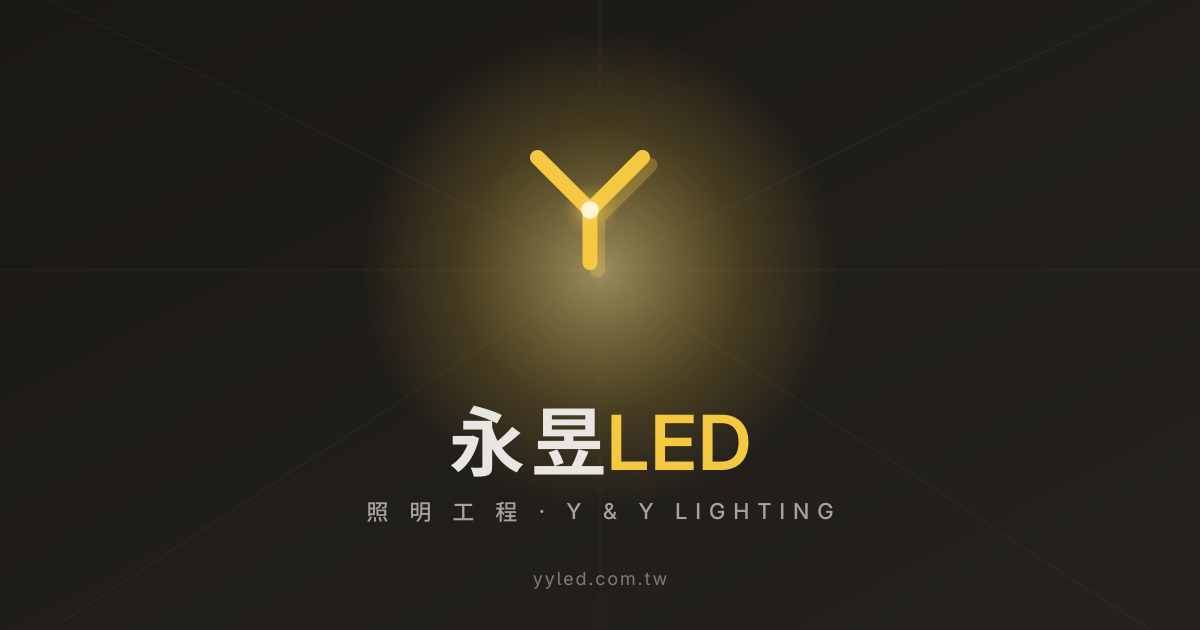
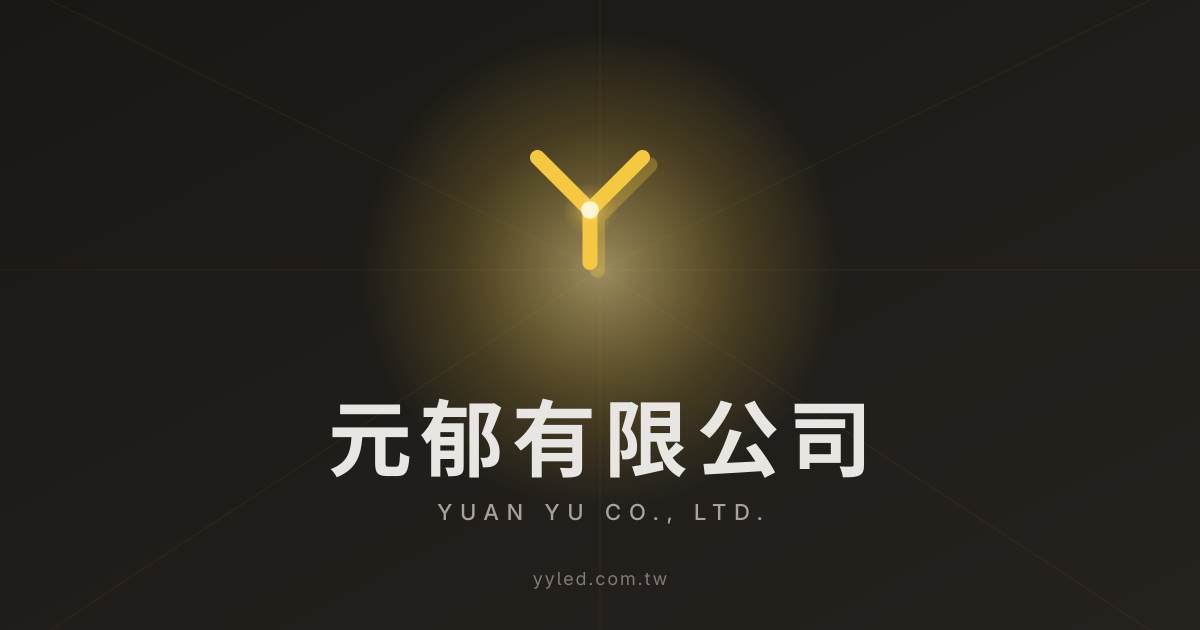
rebrand: 公司名稱 永昱 LED 照明工程 → 元郁有限公司
文字替換範圍：
- hugo.toml: site title + params.description
- content/_index.md: frontmatter title
- content/works/_index.md: description
- themes/yyled/layouts/index.html: hero 文案
- themes/yyled/layouts/_partials/header.html: logo img alt
- themes/yyled/layouts/_partials/footer.html: footer credit
- themes/yyled/layouts/_default/baseof.html: og:image:alt
- static/favicon.svg: aria-label
- static/img/logo.svg: aria-label + wordmark 文字 + 英文 tagline
- static/img/og-image.svg: 全部文字
- static/img/og-image.png: 重新由 SVG 渲染

未動的營運識別（依使用者指示保留）：
- baseURL 'https://yyled.netlify.app/'
- web 'yyled.com.tw'
- line_id '@yyled'
- email 'info@yyled.com.tw'
- phone, fax, address

視覺設計：
- Wordmark 從『永昱（白）+ LED（金）』改為『元郁（白）』，對應新公司名無 LED 字樣
- Tagline 從『Y & Y · LIGHTING ENGINEERING』改為『YUAN YU CO., LTD.』
- 雙 Y 標誌、配色、字型全部保留

驗證：
- hugo build 成功（144ms, 56 pages）
- grep 確認 source 與 build HTML 都已無 永昱 殘留

Changed region(s): [[0.2775, 0.6333, 0.74, 0.754], [0.3083, 0.7841, 0.7092, 0.8444]]

diff --git a/themes/yyled/layouts/index.html b/themes/yyled/layouts/index.html
@@ -19,7 +19,7 @@
         <span class="bg-gradient-to-r from-accent via-yellow-200 to-accent bg-clip-text text-transparent">照亮整座廠房</span>
       </h1>
       <p class="text-lg sm:text-xl text-muted leading-relaxed mb-10 max-w-2xl mx-auto">
-        從工廠、辦公、社區到店面 — 永昱 LED 提供設計、施工、節能規劃一條龍服務。<br class="hidden sm:block">
+        從工廠、辦公、社區到店面 — 元郁提供設計、施工、節能規劃一條龍服務。<br class="hidden sm:block">
         已完成 <span class="text-accent font-semibold">26 個專案</span>，累積 <span class="text-accent font-semibold">178 張實績</span>。
       </p>
       <div class="flex flex-col sm:flex-row items-center justify-center gap-3">

diff --git a/themes/yyled/layouts/_default/baseof.html b/themes/yyled/layouts/_default/baseof.html
@@ -17,7 +17,7 @@
   <meta property="og:image" content="{{ .Permalink }}img/og-image.png">
   <meta property="og:image:width" content="1200">
   <meta property="og:image:height" content="630">
-  <meta property="og:image:alt" content="永昱 LED 照明工程">
+  <meta property="og:image:alt" content="元郁有限公司">
   <meta name="twitter:card" content="summary_large_image">
   <meta name="twitter:title" content="{{ if .IsHome }}{{ site.Title }}{{ else }}{{ printf "%s | %s" .Title site.Title }}{{ end }}">
   <meta name="twitter:description" content="{{ with .Description }}{{ . }}{{ else }}{{ site.Params.Description }}{{ end }}">

diff --git a/themes/yyled/layouts/_partials/header.html b/themes/yyled/layouts/_partials/header.html
@@ -1,6 +1,6 @@
 <nav class="max-w-7xl mx-auto px-4 sm:px-6 lg:px-8 h-16 flex items-center justify-between">
   <a href="/" class="flex items-center gap-2.5 group">
-    <img src="/img/logo.svg" alt="永昱 LED 照明工程" class="h-9 sm:h-10 w-auto group-hover:opacity-90 transition-opacity">
+    <img src="/img/logo.svg" alt="元郁有限公司" class="h-9 sm:h-10 w-auto group-hover:opacity-90 transition-opacity">
   </a>
 
   {{/* Desktop menu */}}

diff --git a/themes/yyled/layouts/_partials/footer.html b/themes/yyled/layouts/_partials/footer.html
@@ -28,7 +28,7 @@
     </div>
     <div class="mt-10 pt-6 border-t border-white/5 flex flex-col sm:flex-row justify-between items-center gap-2 text-xs text-muted">
       <p>© {{ now.Year }} {{ site.Title }}. All rights reserved.</p>
-      <p>Designed with ❤ for 永昱 LED</p>
+      <p>Designed with ❤ for 元郁</p>
     </div>
   </div>
 </footer>

diff --git a/content/works/_index.md b/content/works/_index.md
@@ -1,5 +1,5 @@
 ---
 title: 作品集
-description: 永昱 LED 歷年實績照 · 一般方案 12 件、租賃方案 14 件
+description: 元郁 歷年實績照 · 一般方案 12 件、租賃方案 14 件
 layout: list
 ---

diff --git a/content/_index.md b/content/_index.md
@@ -1,4 +1,4 @@
 ---
-title: 永昱 LED 照明工程
+title: 元郁有限公司
 description: 專業 LED 燈具設計、施工、節能規劃 · 一般方案 12 件、租賃方案 14 件實績
 ---
